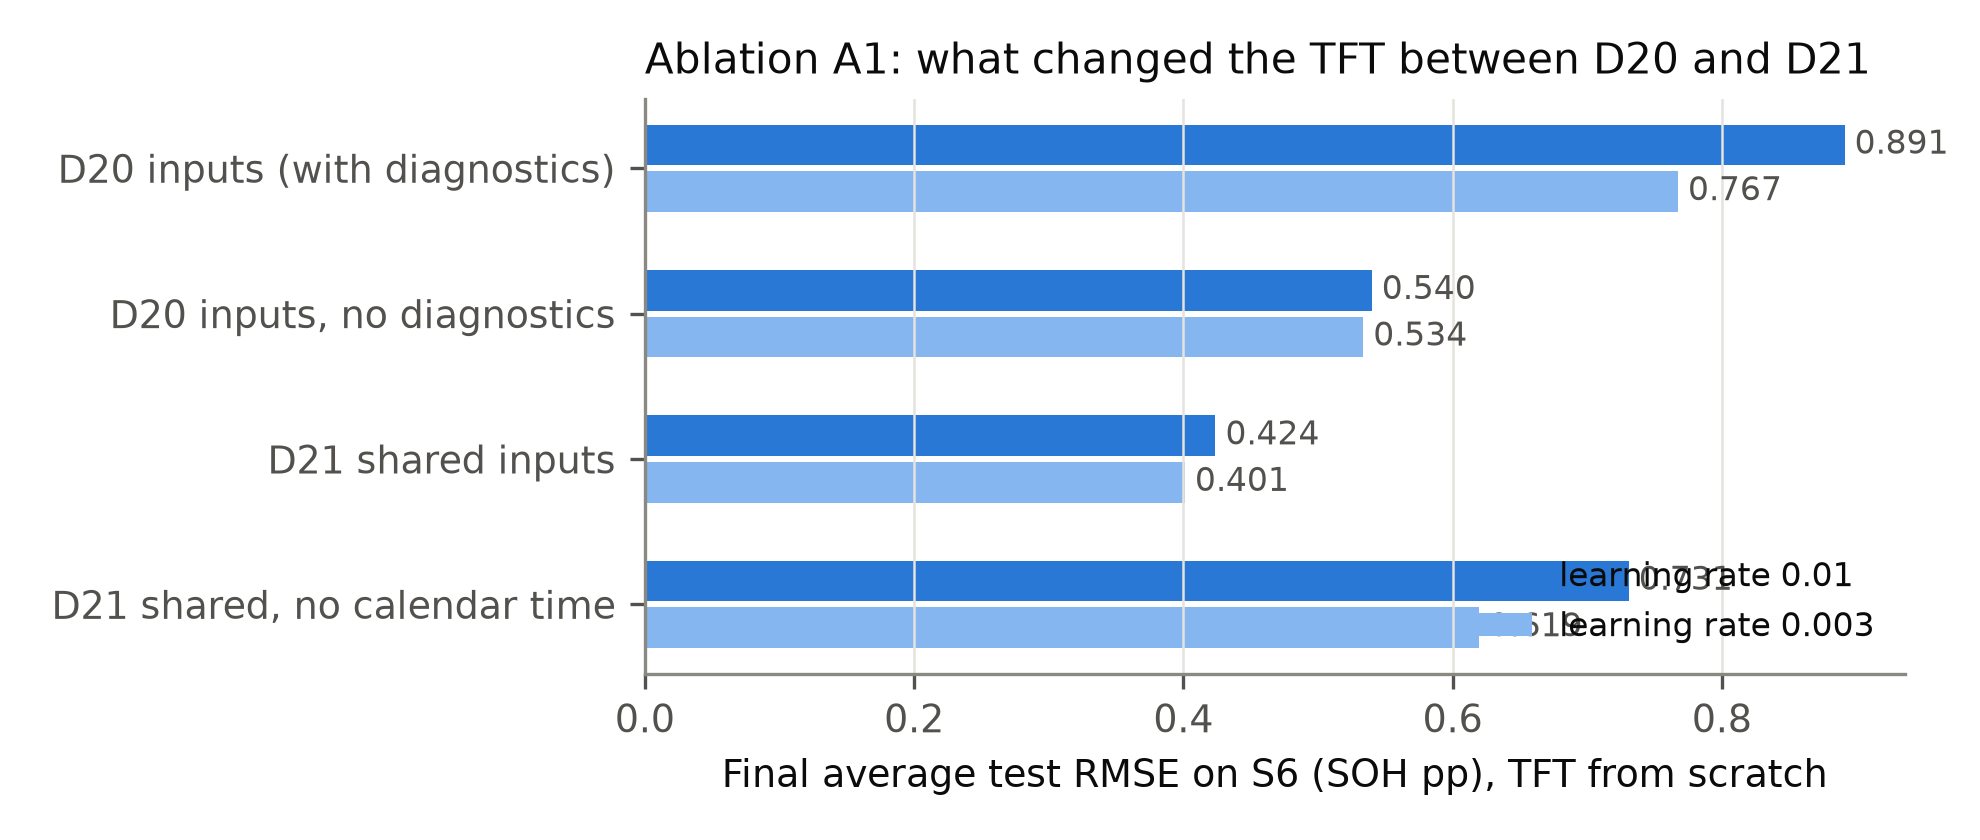
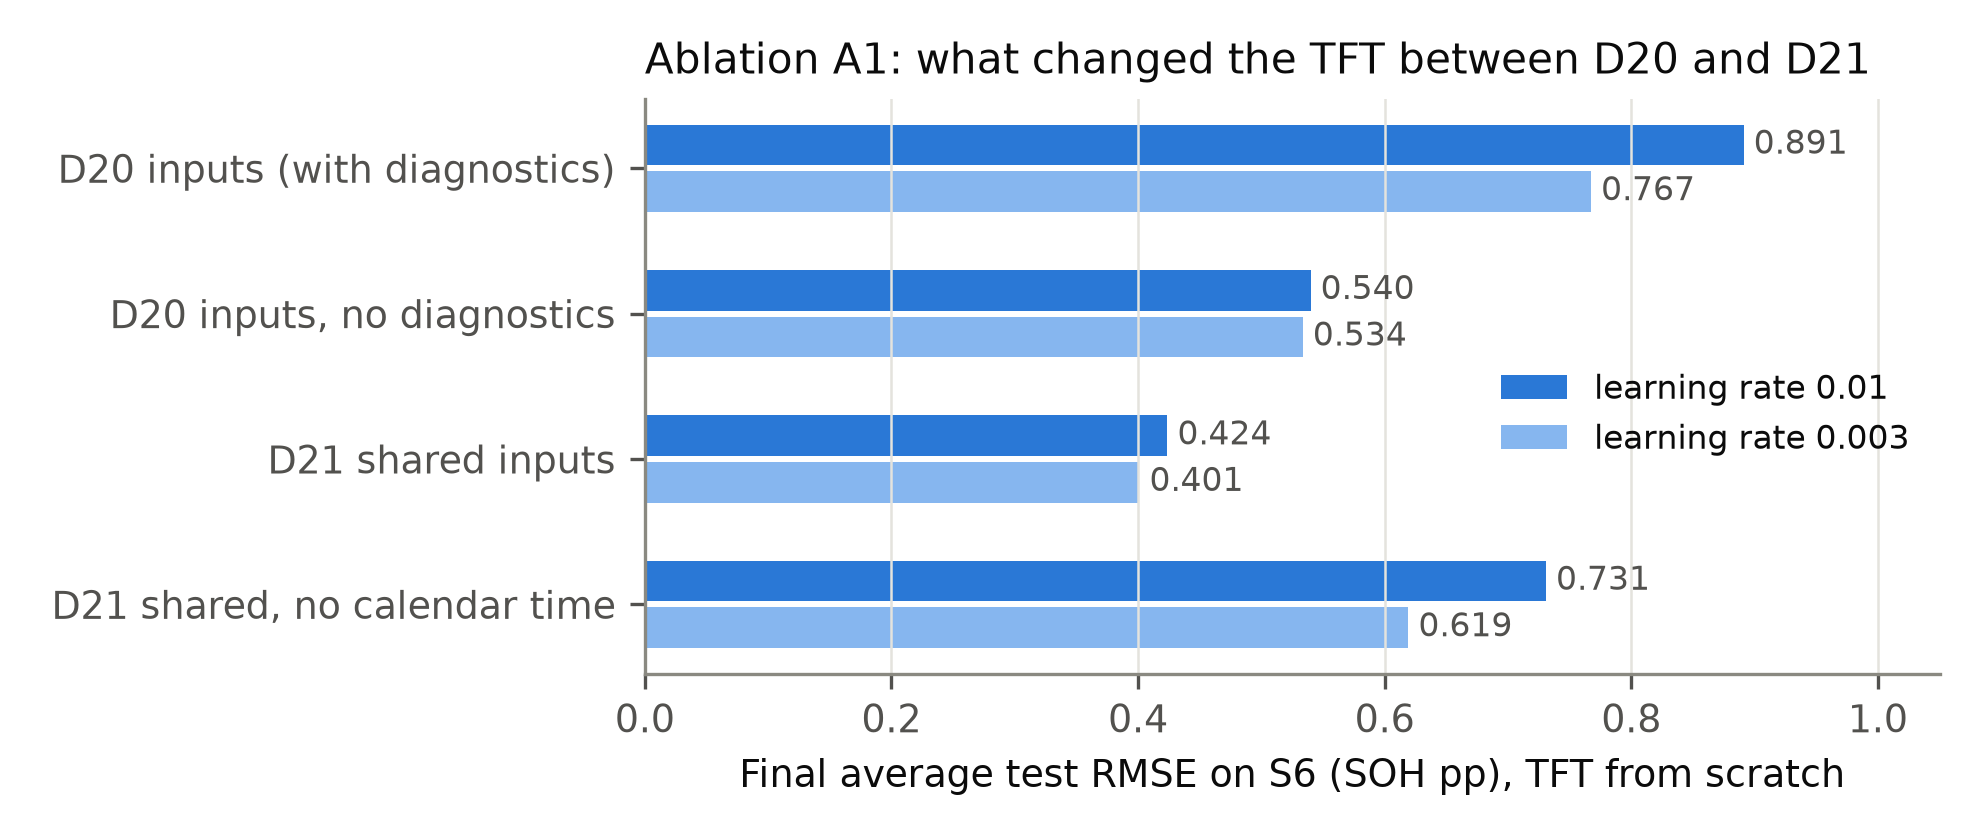
Paper: post hoc ablation A1 (diagnostics and calendar time explain the TFT's D20->D21 gain)

diff --git a/paper/sections/results.tex b/paper/sections/results.tex
@@ -160,6 +160,15 @@ The S6 stream does not degrade the pretrained models' error on the pool's test s
   \label{fig:retention}
 \end{figure}
 
+A post hoc ablation (one seed set; Fig.~\ref{fig:ablation}) explains why the TFT trained from scratch improves from 0.891~pp with the D20 inputs to 0.401~pp with the shared inputs. Dropping the 17 diagnostic features lowers the error by 0.23--0.35~pp, and the calendar time between checks lowers it by 0.22--0.31~pp (both $p_{\mathrm{Holm}}<0.001$ at both learning rates); the learning rate has no significant effect. This agrees with the observation that fade per cycle in S6 rises with the calendar time between checks at 50~$^\circ$C.
+
+\begin{figure}[t]
+  \centering
+  \includegraphics[width=\columnwidth]{figures/d21_ablation_a1.png}
+  \caption{Post hoc ablation of the TFT trained from scratch on S6: final average test RMSE (mean of 50 runs) for four input sets and two learning rates.}
+  \label{fig:ablation}
+\end{figure}
+
 % -----------------------------------------------------------------------------
 \subsection{What the TFT uses}
 \label{sec:res-interp}

diff --git a/scripts/make_d21_figures.py b/scripts/make_d21_figures.py
@@ -139,7 +139,8 @@ def fig_ablation(d: dict) -> Path:
     ax.set_xlabel("Final average test RMSE on S6 (SOH pp), TFT from scratch")
     ax.set_title("Ablation A1: what changed the TFT between D20 and D21", loc="left")
     ax.grid(axis="y", visible=False)
-    ax.legend(loc="lower right", fontsize=8)
+    ax.set_xlim(0, 1.05)
+    ax.legend(loc="center right", bbox_to_anchor=(1.0, 0.45), fontsize=8)
     fig.tight_layout()
     path = OUT / "d21_ablation_a1.png"
     fig.savefig(path)
